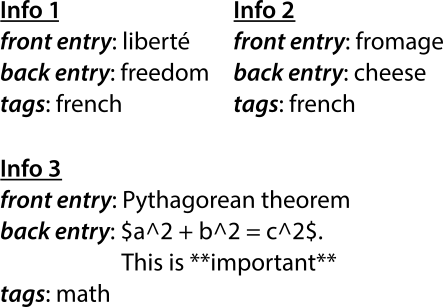
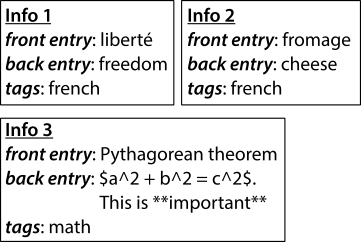
Improved visual separation of images from text in readme and added review animation

Changed region(s): [[0.0, 0.0, 1.0, 1.0]]

diff --git a/README.md b/README.md
@@ -16,7 +16,7 @@ Infos are of a certain **type** that define the number of **entries** of the inf
 
 ![](https://github.com/s9w/Ginseng/raw/master/doc/infos.png)
 
-Info entries can not only be simple text but can contain [Markdown](http://en.wikipedia.org/wiki/Markdown) as well as [LaTeX](http://en.wikipedia.org/wiki/LaTeX) expressions between dollar signs. So 
+Info entries can not only be simple text but can contain [Markdown](http://en.wikipedia.org/wiki/Markdown) as well as [LaTeX](http://en.wikipedia.org/wiki/LaTeX) expressions between dollar signs like in the third example.
 
 ### Templates
 To display an info on screen you'll need to define how it's supposed to look. That's what templates are for. Templates consist of two Markdown expressions. One for the front and one for the back of the virtul flash card. In that expression, the entries of the info can be accessed with curly braces like `{front}` or `{country}` if the info type has an entry called country. Since templates use the specific structure of a an Info type, they're bound to them. So each Info type can have one or more templates. Example template:
@@ -25,7 +25,11 @@ To display an info on screen you'll need to define how it's supposed to look. Th
 
 Templates can also contain Markdown and LaTeX expressions. 
 
-Each templates can generate a review for one Info. A common use of flashcard software is to ask for the reverse relation of the Info. This can easily be done by creating a second template with the appropriate changes. In addition to the two expressions, templates can also have a **condition**. The associated review will only be generated when that condition is met. Typically a reverse template would have a condition that the info would have a "reverse" tag. It'll be only generated for infos with that tag then. The complete condition syntax is described [below](#filter-syntax).
+Each templates can generate a review for one Info. Example of how a generated review might look like:
+
+![](https://github.com/s9w/Ginseng/raw/master/doc/review.gif)
+
+A common use of flashcard software is to ask for the reverse relation of the Info. This can easily be done by creating a second template with the appropriate changes. In addition to the front and back expressions, templates can also have a **condition**. The associated review will only be generated when that condition is met. Typically a reverse template would have a condition that the info would have a "reverse" tag. It'll be only generated for infos with that tag then. The complete condition syntax is described [below](#filter-syntax).
 
 The general nature of the templates also make it trivial to display the contents of a `notes` entry alongside.
 
